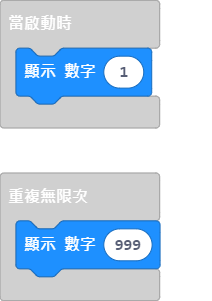
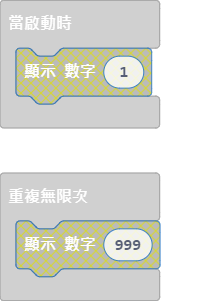
更新 main.blocks, main.ts

Changed region(s): [[0.0566, 0.7176, 0.7642, 0.9269], [0.0566, 0.1495, 0.7358, 0.3588]]

diff --git a/main.ts b/main.ts
@@ -1,4 +1,3 @@
-basic.showNumber(1)
 basic.forever(function () {
-    basic.showNumber(999)
+	
 })
